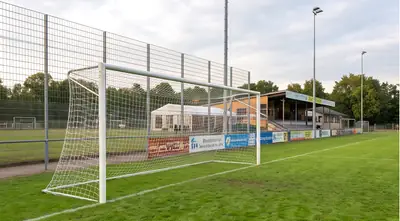
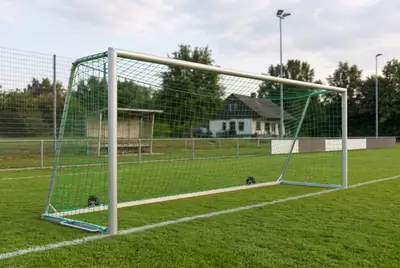
Einsatzort-Karten: neue Ortsbilder mit unseren Toren (KI auf Basis der Shop-Produktfotos)

diff --git a/docs/seo-logbuch.md b/docs/seo-logbuch.md
@@ -8,8 +8,8 @@ Der Ordner `docs/` wird nicht mit ausgeliefert (nur `src/` und `public/` landen 
 - Startseite „Fußballtore nach Einsatzort“: Die 5 Karten zeigen jetzt Bilder statt der gezeichneten OrtIllustration.
 - **Die Bilder sind KI-generiert (Gemini, Collage von Matze).** Das ist eine bewusste Abkehr von der früheren Regel „keine KI-Fotos“, Entscheidung Matze am 04.11. Sie werden nur als Stimmungsbild für den Ort genutzt (alt="", der Kartentitel nennt den Ort), nie als Produktfoto.
 - Produktabgleich: Jedes Bild zeigt nur Torarten, die die jeweilige Einsatzort-Seite empfiehlt (Verein: Großfeld; Schule: Bolzplatztor auf dem Schulhof; Kommune: Bolzplatztor; Spielplatz: Alu-Minitor mit Hinterbau; Garten: Pop-up + Minitor).
-- Aus der Collage geschnitten, eingebrannte Beschriftungen weggeschnitten (Retusche sah schlecht aus), leicht aufgehellt. WebP 400/800 px in `public/images/orte/`, 12–99 KB.
-- Nachtrag: Kommune und Spielplatz zeigen echte Shop-Fotos statt KI (Wunsch Matze): Bolzplatztor UNKAPUTTBAR Art. 255 (Platzfoto) und Alu-Minitor mit Hinterbau Art. 18838 (Platzfoto), über `fotos.json` (`ort-kommune`, `ort-spielplatz`). Dort kein „Symbolbild“-Hinweis. KI bleiben: Verein, Schule, Garten.
+- WebP 400/800/1200 px in `public/images/orte/` (Kommune enger zugeschnitten, damit das Tor auf der kleinen Karte erkennbar ist).
+- Nachtrag 04.11. abends: Alle 5 Bilder neu, wieder KI (Gemini), aber mit anstoss24-Produktfotos als Vorlage, damit unsere Tore zu sehen sind: Verein = Großfeldtor transportabel 1523, Schule = Bolzplatztor mit Basketballaufbau 13019/13020 auf dem Schulhof, Kommune = Bolzplatztor auf kommunalem Platz zwischen Wohnblocks, Spielplatz = Alu-Minitor mit Hinterbau 18838, Garten = Pop-up 19 + Alu-Minitor Lightweight 18602. Shop-Fotos-Zwischenstand (Kommune/Spielplatz) wieder raus, weil die Umgebung nicht passte. Alle 5 mit „Symbolbild“. Vorlagen und Prompts liegen bei Matze unter ~/Desktop/fussballtore-ortsbilder/.
 - Rückweg: Eintrag in `ORT_FOTOS` (EinsatzortKarte.astro) löschen, dann kommt die Illustration zurück.
 
 ### Offen
